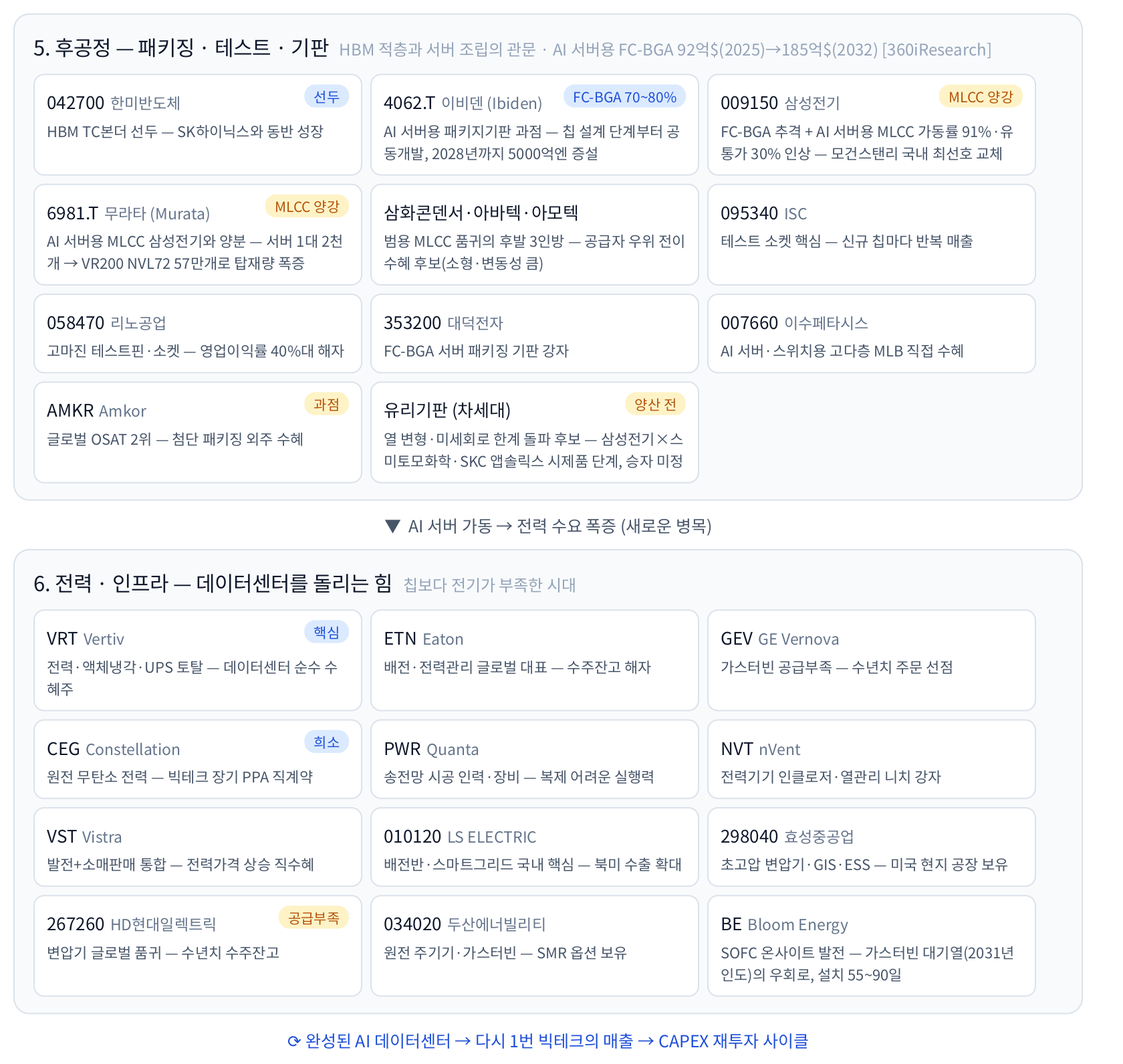
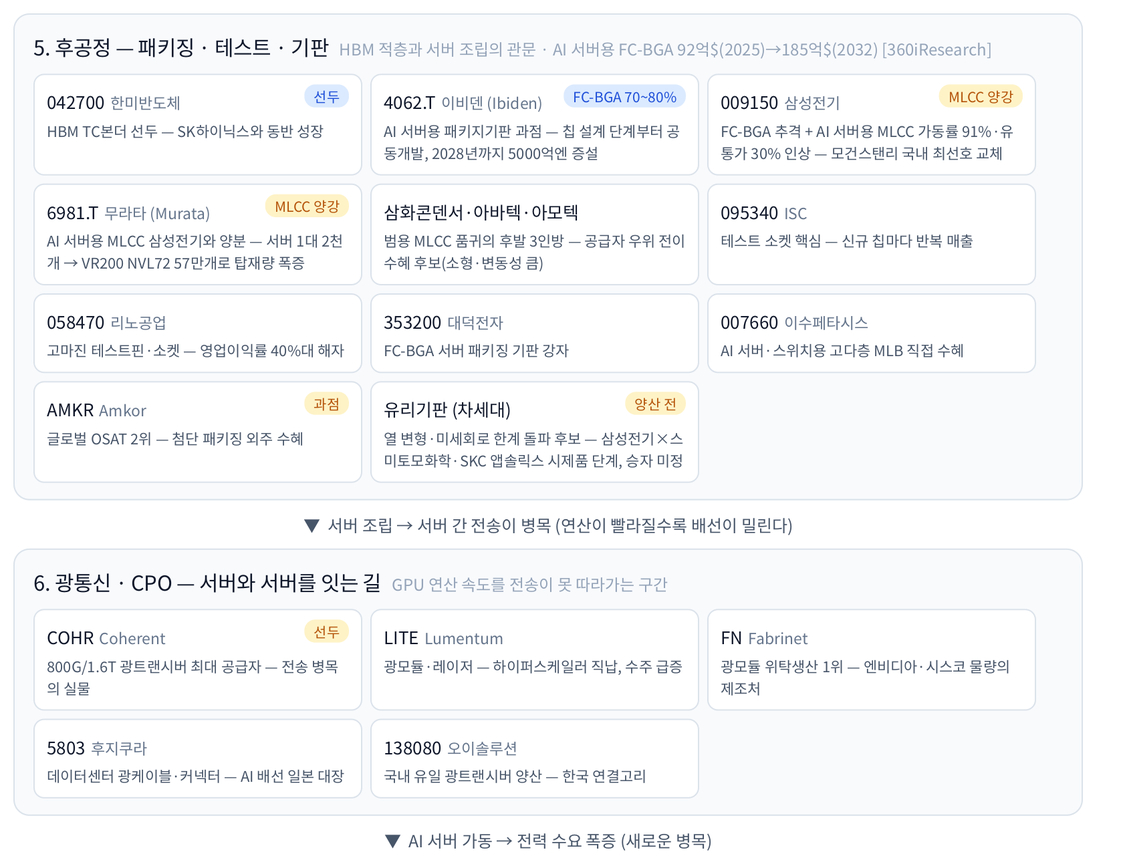
부록C 광통신·CPO 축 신설(50→55종) + 美 ETF AI 세부테마 15종(30→48종)
계기: 한경MONEY 2026.08 'ETF 심층해부 — AI 메가트렌드'. 기사의 핵심은 종목 리스트가 아니라
'투자 트렌드가 병목을 따라 이동한다'(연산→메모리→광통신→전력)는 프레임이고,
그 축으로 우리 커버리지를 대조하니 두 곳이 실제로 비어 있었다.

[① 부록C 광통신·CPO — 4대 하드웨어 병목의 3번째가 통째로 없었다]
그동안 '전기적' 인터커넥트(ANET 스위칭·CRDO SerDes·ALAB PCIe/CXL·AVGO·MRVL)만 촘촘했고
'광학' 실물 공급자가 0종이었다. 실측하니 이 축이 바로 돈이 몰린 곳이었다 —
LITE +521% · COHR +195% · 후지쿠라 +131% · 오이솔루션 +127%(1년).
다만 3개월은 COHR -14%·FN -22%·오이솔루션 -15%로 조정 중이라 '병목이 이미 지나간' 신호도 함께 잡힌다.
- COHR(800G/1.6T 광트랜시버 최대) · LITE(광모듈·레이저) · FN(광모듈 위탁생산 1위)
  · 5803.T 후지쿠라(DC 광케이블) · 138080.KQ 오이솔루션(국내 유일 광트랜시버 양산)

[② 生成기·빌더의 장수 하드코딩 버그 — 조용한 누락 발견·수정]
gen_appd_valuechain.py 의 PARTS 가 6섹션·3페이지로 고정돼 있어 광통신 섹션을 넣자
**마지막 전력·인프라 섹션이 PNG 에서 통째로 사라졌다**(FULL 도 range(6) 고정).
빌더 renderAppendixD 도 [1,2,3] 고정이라 4번째 장을 못 읽었다.
→ 둘 다 동적으로 교체(섹션 2개씩 자동 분할·최대 8장 탐색) + ARROWS 길이 assert 추가.
   앞으로 섹션을 추가해도 조용히 잘리지 않는다. PNG 3장 → 4장 재생성.

[③ 美 ETF AI 세부테마 15종]
기사 AI ETF 맵 40종 중 우리 보유는 11종뿐이었다(QQQ·XLK·MAGS·SMH·SOXX·DRAM·XLU·NLR·AIQ·ROBO·QTUM).
클라우드·데이터센터·광통신·소프트웨어·보안·생성AI 는 각 0종.
→ 그룹키 'aitheme' 신설: SKYY·WCLD / DTCR·TRFK / LUMA·LYTE / GRID·AIPO / CHPX / IGV /
  CIBR·HACK·BUG / CHAT·IGPT. 반도체·시장대표 중복분(XSD·PSI·FTXL·SOXQ·VGT·IYW·FTEC·IXN·IGM·IHAK·CLOU·BAI)은 제외.
  빌더 groups 배열 ④ 신설(방어형 ④→⑤) + 서버 app.js etfGroups 라벨 등록 + usetf 딕셔너리 키 초기화.
  ⚠ 광통신 ETF 2종은 2026년 신규상장이라 1년·6개월 칸이 '-' 로 나오는 게 정상.

[검증] fetch_appc 55/55 · errs [] / fetch_us 48종·1년수익률 48/48 채워짐 /
       PNG 4장 재생성 후 7.전력·인프라 12종(BE 포함) 복구 육안 확인 / node --check 통과 /
       verify [AppC] 하한 50→55, SKILL.md 5곳 갱신

diff --git a/assets/appd_valuechain.html b/assets/appd_valuechain.html
@@ -19,4 +19,4 @@ body { font-family:'Noto Sans CJK KR','Noto Sans KR',sans-serif; margin:0; paddi
 .b2 { background:#fef3c7; color:#b45309; }
 .arr { text-align:center; color:#475569; font-size:12.5px; padding:9px 0; }
 .cyc { text-align:center; color:#1d4ed8; font-size:12.5px; padding:10px 0 2px; }
-</style></head><body><div class="leg"><span class="b1">독점·준독점</span> 대체재가 사실상 없음&nbsp;&nbsp;&nbsp;<span class="b2">과점·복점·양강</span> 2~3개사가 시장 분할</div><div class="sec"><div class="sh"><span class="t">1. 수요 — 빅테크 (돈의 출발점)</span><span class="s">연 수천억 달러 AI CAPEX 집행</span></div><div class="cards"><div class="card"><span class="tk">MSFT</span><span class="nm">Microsoft</span><div class="mo">OpenAI 동맹 + Azure — AI 소프트웨어 배급망 장악</div></div><div class="card"><span class="tk">GOOGL</span><span class="nm">Alphabet</span><div class="mo">자체 TPU 설계 + 검색·클라우드 데이터 해자</div></div><div class="card"><span class="tk">AMZN</span><span class="nm">Amazon</span><div class="mo">AWS 점유 1위 + 자체칩(Trainium)으로 원가 통제</div></div><div class="card"><span class="tk">META</span><span class="nm">Meta</span><div class="mo">광고 AI로 CAPEX를 즉시 수익화하는 구조</div></div><div class="card"><span class="tk">ORCL</span><span class="nm">Oracle</span><div class="mo">OCI 대형 AI 계약 수주로 '제4 클라우드' 부상</div></div></div></div><div class="arr">▼&nbsp;&nbsp;AI 칩 주문 — CAPEX가 아래로 흘러내린다</div><div class="sec"><div class="sh"><span class="t">2. 설계 — 팹리스 · EDA · 인터커넥트</span><span class="s">공장 없이 설계도와 생태계로 지배</span></div><div class="cards"><div class="card"><span class="b1">독점적</span><span class="tk">NVDA</span><span class="nm">NVIDIA</span><div class="mo">CUDA 소프트웨어 락인 — 칩이 아니라 생태계가 해자</div></div><div class="card"><span class="tk">AMD</span><span class="nm">AMD</span><div class="mo">유일하게 규모 있는 GPU 대안 — 수요처가 키워주는 2등</div></div><div class="card"><span class="b2">과점</span><span class="tk">AVGO</span><span class="nm">Broadcom</span><div class="mo">빅테크 자체칩(ASIC) 설계 대행 + 네트워크칩 지배</div></div><div class="card"><span class="tk">MRVL</span><span class="nm">Marvell</span><div class="mo">커스텀 실리콘 2강 — Broadcom과 시장 분할</div></div><div class="card"><span class="b1">표준</span><span class="tk">ARM</span><span class="nm">Arm</span><div class="mo">저전력 CPU 설계 IP의 사실상 표준 — 로열티 수취</div></div><div class="card"><span class="b2">복점</span><span class="tk">SNPS</span><span class="nm">Synopsys</span><div class="mo">EDA 툴 없인 칩 설계 불가 — Cadence와 복점</div></div><div class="card"><span class="b2">복점</span><span class="tk">CDNS</span><span class="nm">Cadence</span><div class="mo">설계·검증 EDA 복점의 다른 한 축</div></div><div class="card"><span class="tk">ANET</span><span class="nm">Arista</span><div class="mo">GPU 수만 개를 묶는 AI 클러스터 스위치 1위</div></div><div class="card"><span class="tk">CRDO</span><span class="nm">Credo</span><div class="mo">칩 간 고속연결 SerDes — 대역폭 병목 해소</div></div><div class="card"><span class="tk">ALAB</span><span class="nm">Astera Labs</span><div class="mo">PCIe/CXL 리타이머 선점 — AI 서버 표준 부품화</div></div></div></div><div class="arr">▼&nbsp;&nbsp;설계도 → 위탁생산 (장비·소재 없이는 공장이 못 돈다)</div><div class="sec"><div class="sh"><span class="t">3. 장비 · 소재 — 제조의 병목 공급자</span><span class="s">파운드리·메모리가 전량 의존</span></div><div class="cards"><div class="card"><span class="b1">완전독점</span><span class="tk">ASML</span><span class="nm">ASML</span><div class="mo">EUV 노광기 지구상 유일 제조사 — 최상위 병목</div></div><div class="card"><span class="tk">AMAT</span><span class="nm">Applied Materials</span><div class="mo">증착·이온주입 등 최광폭 장비 포트폴리오</div></div><div class="card"><span class="b2">과점</span><span class="tk">LRCX</span><span class="nm">Lam Research</span><div class="mo">식각 장비 강자 — 적층 늘수록 수혜</div></div><div class="card"><span class="b1">독점적</span><span class="tk">KLAC</span><span class="nm">KLA</span><div class="mo">검사·계측 점유 과반 — 수율 관리의 관문</div></div><div class="card"><span class="b1">준독점</span><span class="tk">8035.T</span><span class="nm">Tokyo Electron</span><div class="mo">포토레지스트 도포 트랙 등 준독점 영역 보유</div></div><div class="card"><span class="b2">양강</span><span class="tk">6857.T</span><span class="nm">Advantest</span><div class="mo">AI 가속기·HBM 테스터 양강 — 검사 없인 출하 불가</div></div><div class="card"><span class="b1">준독점</span><span class="tk">6146.T</span><span class="nm">Disco</span><div class="mo">웨이퍼 그라인더·다이서 사실상 독점 — HBM 적층 필수</div></div><div class="card"><span class="b2">양강</span><span class="tk">4063.T</span><span class="nm">Shin-Etsu</span><div class="mo">실리콘 웨이퍼·포토레지스트 최상위 소재</div></div><div class="card"><span class="b2">양강</span><span class="tk">3436.T</span><span class="nm">SUMCO</span><div class="mo">웨이퍼 양강의 다른 축 — 신규진입 사실상 불가</div></div></div></div><div class="arr">▼&nbsp;&nbsp;장비·소재 공급</div><div class="sec"><div class="sh"><span class="t">4. 제조 — 파운드리 & 메모리(HBM)</span><span class="s">설계도를 실물 칩으로</span></div><div class="cards"><div class="card"><span class="b1">독점적</span><span class="tk">TSM</span><span class="nm">TSMC</span><div class="mo">3nm 이하 선단공정 사실상 독점 — NVDA·AMD·AVGO 전부 여기서 생산</div></div><div class="card"><span class="tk">005930</span><span class="nm">삼성전자</span><div class="mo">메모리+파운드리 동시 보유 유일 기업</div></div><div class="card"><span class="tk">INTC</span><span class="nm">Intel</span><div class="mo">미국 내 파운드리 재건 — 지정학이 만든 옵션가치</div></div><div class="card"><span class="b1">1위</span><span class="tk">000660</span><span class="nm">SK하이닉스</span><div class="mo">HBM 점유 1위 — NVIDIA 최우선 공급사 지위</div></div><div class="card"><span class="b2">3강</span><span class="tk">MU</span><span class="nm">Micron</span><div class="mo">HBM·DRAM 3강 — 미국 유일 메모리사</div></div></div></div><div class="arr">▼&nbsp;&nbsp;칩 완성 → 적층·패키징·테스트 (한국 기업 밀집 구간)</div><div class="sec"><div class="sh"><span class="t">5. 후공정 — 패키징 · 테스트 · 기판</span><span class="s">HBM 적층과 서버 조립의 관문 · AI 서버용 FC-BGA 92억$(2025)→185억$(2032) [360iResearch]</span></div><div class="cards"><div class="card"><span class="b1">선두</span><span class="tk">042700</span><span class="nm">한미반도체</span><div class="mo">HBM TC본더 선두 — SK하이닉스와 동반 성장</div></div><div class="card"><span class="b1">FC-BGA 70~80%</span><span class="tk">4062.T</span><span class="nm">이비덴 (Ibiden)</span><div class="mo">AI 서버용 패키지기판 과점 — 칩 설계 단계부터 공동개발, 2028년까지 5000억엔 증설</div></div><div class="card"><span class="b2">MLCC 양강</span><span class="tk">009150</span><span class="nm">삼성전기</span><div class="mo">FC-BGA 추격 + AI 서버용 MLCC 가동률 91%·유통가 30% 인상 — 모건스탠리 국내 최선호 교체</div></div><div class="card"><span class="b2">MLCC 양강</span><span class="tk">6981.T</span><span class="nm">무라타 (Murata)</span><div class="mo">AI 서버용 MLCC 삼성전기와 양분 — 서버 1대 2천개 → VR200 NVL72 57만개로 탑재량 폭증</div></div><div class="card"><span class="tk">삼화콘덴서·아바텍·아모텍</span><span class="nm"></span><div class="mo">범용 MLCC 품귀의 후발 3인방 — 공급자 우위 전이 수혜 후보(소형·변동성 큼)</div></div><div class="card"><span class="tk">095340</span><span class="nm">ISC</span><div class="mo">테스트 소켓 핵심 — 신규 칩마다 반복 매출</div></div><div class="card"><span class="tk">058470</span><span class="nm">리노공업</span><div class="mo">고마진 테스트핀·소켓 — 영업이익률 40%대 해자</div></div><div class="card"><span class="tk">353200</span><span class="nm">대덕전자</span><div class="mo">FC-BGA 서버 패키징 기판 강자</div></div><div class="card"><span class="tk">007660</span><span class="nm">이수페타시스</span><div class="mo">AI 서버·스위치용 고다층 MLB 직접 수혜</div></div><div class="card"><span class="b2">과점</span><span class="tk">AMKR</span><span class="nm">Amkor</span><div class="mo">글로벌 OSAT 2위 — 첨단 패키징 외주 수혜</div></div><div class="card"><span class="b2">양산 전</span><span class="tk">유리기판 (차세대)</span><span class="nm"></span><div class="mo">열 변형·미세회로 한계 돌파 후보 — 삼성전기×스미토모화학·SKC 앱솔릭스 시제품 단계, 승자 미정</div></div></div></div><div class="arr">▼&nbsp;&nbsp;AI 서버 가동 → 전력 수요 폭증 (새로운 병목)</div><div class="sec"><div class="sh"><span class="t">6. 전력 · 인프라 — 데이터센터를 돌리는 힘</span><span class="s">칩보다 전기가 부족한 시대</span></div><div class="cards"><div class="card"><span class="b1">핵심</span><span class="tk">VRT</span><span class="nm">Vertiv</span><div class="mo">전력·액체냉각·UPS 토탈 — 데이터센터 순수 수혜주</div></div><div class="card"><span class="tk">ETN</span><span class="nm">Eaton</span><div class="mo">배전·전력관리 글로벌 대표 — 수주잔고 해자</div></div><div class="card"><span class="tk">GEV</span><span class="nm">GE Vernova</span><div class="mo">가스터빈 공급부족 — 수년치 주문 선점</div></div><div class="card"><span class="b1">희소</span><span class="tk">CEG</span><span class="nm">Constellation</span><div class="mo">원전 무탄소 전력 — 빅테크 장기 PPA 직계약</div></div><div class="card"><span class="tk">PWR</span><span class="nm">Quanta</span><div class="mo">송전망 시공 인력·장비 — 복제 어려운 실행력</div></div><div class="card"><span class="tk">NVT</span><span class="nm">nVent</span><div class="mo">전력기기 인클로저·열관리 니치 강자</div></div><div class="card"><span class="tk">VST</span><span class="nm">Vistra</span><div class="mo">발전+소매판매 통합 — 전력가격 상승 직수혜</div></div><div class="card"><span class="tk">010120</span><span class="nm">LS ELECTRIC</span><div class="mo">배전반·스마트그리드 국내 핵심 — 북미 수출 확대</div></div><div class="card"><span class="tk">298040</span><span class="nm">효성중공업</span><div class="mo">초고압 변압기·GIS·ESS — 미국 현지 공장 보유</div></div><div class="card"><span class="b2">공급부족</span><span class="tk">267260</span><span class="nm">HD현대일렉트릭</span><div class="mo">변압기 글로벌 품귀 — 수년치 수주잔고</div></div><div class="card"><span class="tk">034020</span><span class="nm">두산에너빌리티</span><div class="mo">원전 주기기·가스터빈 — SMR 옵션 보유</div></div><div class="card"><span class="tk">BE</span><span class="nm">Bloom Energy</span><div class="mo">SOFC 온사이트 발전 — 가스터빈 대기열(2031년 인도)의 우회로, 설치 55~90일</div></div></div></div><div class="cyc">⟳ 완성된 AI 데이터센터 → 다시 1번 빅테크의 매출 → CAPEX 재투자 사이클</div></body></html>
+</style></head><body><div class="leg"><span class="b1">독점·준독점</span> 대체재가 사실상 없음&nbsp;&nbsp;&nbsp;<span class="b2">과점·복점·양강</span> 2~3개사가 시장 분할</div><div class="sec"><div class="sh"><span class="t">1. 수요 — 빅테크 (돈의 출발점)</span><span class="s">연 수천억 달러 AI CAPEX 집행</span></div><div class="cards"><div class="card"><span class="tk">MSFT</span><span class="nm">Microsoft</span><div class="mo">OpenAI 동맹 + Azure — AI 소프트웨어 배급망 장악</div></div><div class="card"><span class="tk">GOOGL</span><span class="nm">Alphabet</span><div class="mo">자체 TPU 설계 + 검색·클라우드 데이터 해자</div></div><div class="card"><span class="tk">AMZN</span><span class="nm">Amazon</span><div class="mo">AWS 점유 1위 + 자체칩(Trainium)으로 원가 통제</div></div><div class="card"><span class="tk">META</span><span class="nm">Meta</span><div class="mo">광고 AI로 CAPEX를 즉시 수익화하는 구조</div></div><div class="card"><span class="tk">ORCL</span><span class="nm">Oracle</span><div class="mo">OCI 대형 AI 계약 수주로 '제4 클라우드' 부상</div></div></div></div><div class="arr">▼&nbsp;&nbsp;AI 칩 주문 — CAPEX가 아래로 흘러내린다</div><div class="sec"><div class="sh"><span class="t">2. 설계 — 팹리스 · EDA · 인터커넥트</span><span class="s">공장 없이 설계도와 생태계로 지배</span></div><div class="cards"><div class="card"><span class="b1">독점적</span><span class="tk">NVDA</span><span class="nm">NVIDIA</span><div class="mo">CUDA 소프트웨어 락인 — 칩이 아니라 생태계가 해자</div></div><div class="card"><span class="tk">AMD</span><span class="nm">AMD</span><div class="mo">유일하게 규모 있는 GPU 대안 — 수요처가 키워주는 2등</div></div><div class="card"><span class="b2">과점</span><span class="tk">AVGO</span><span class="nm">Broadcom</span><div class="mo">빅테크 자체칩(ASIC) 설계 대행 + 네트워크칩 지배</div></div><div class="card"><span class="tk">MRVL</span><span class="nm">Marvell</span><div class="mo">커스텀 실리콘 2강 — Broadcom과 시장 분할</div></div><div class="card"><span class="b1">표준</span><span class="tk">ARM</span><span class="nm">Arm</span><div class="mo">저전력 CPU 설계 IP의 사실상 표준 — 로열티 수취</div></div><div class="card"><span class="b2">복점</span><span class="tk">SNPS</span><span class="nm">Synopsys</span><div class="mo">EDA 툴 없인 칩 설계 불가 — Cadence와 복점</div></div><div class="card"><span class="b2">복점</span><span class="tk">CDNS</span><span class="nm">Cadence</span><div class="mo">설계·검증 EDA 복점의 다른 한 축</div></div><div class="card"><span class="tk">ANET</span><span class="nm">Arista</span><div class="mo">GPU 수만 개를 묶는 AI 클러스터 스위치 1위</div></div><div class="card"><span class="tk">CRDO</span><span class="nm">Credo</span><div class="mo">칩 간 고속연결 SerDes — 대역폭 병목 해소</div></div><div class="card"><span class="tk">ALAB</span><span class="nm">Astera Labs</span><div class="mo">PCIe/CXL 리타이머 선점 — AI 서버 표준 부품화</div></div></div></div><div class="arr">▼&nbsp;&nbsp;설계도 → 위탁생산 (장비·소재 없이는 공장이 못 돈다)</div><div class="sec"><div class="sh"><span class="t">3. 장비 · 소재 — 제조의 병목 공급자</span><span class="s">파운드리·메모리가 전량 의존</span></div><div class="cards"><div class="card"><span class="b1">완전독점</span><span class="tk">ASML</span><span class="nm">ASML</span><div class="mo">EUV 노광기 지구상 유일 제조사 — 최상위 병목</div></div><div class="card"><span class="tk">AMAT</span><span class="nm">Applied Materials</span><div class="mo">증착·이온주입 등 최광폭 장비 포트폴리오</div></div><div class="card"><span class="b2">과점</span><span class="tk">LRCX</span><span class="nm">Lam Research</span><div class="mo">식각 장비 강자 — 적층 늘수록 수혜</div></div><div class="card"><span class="b1">독점적</span><span class="tk">KLAC</span><span class="nm">KLA</span><div class="mo">검사·계측 점유 과반 — 수율 관리의 관문</div></div><div class="card"><span class="b1">준독점</span><span class="tk">8035.T</span><span class="nm">Tokyo Electron</span><div class="mo">포토레지스트 도포 트랙 등 준독점 영역 보유</div></div><div class="card"><span class="b2">양강</span><span class="tk">6857.T</span><span class="nm">Advantest</span><div class="mo">AI 가속기·HBM 테스터 양강 — 검사 없인 출하 불가</div></div><div class="card"><span class="b1">준독점</span><span class="tk">6146.T</span><span class="nm">Disco</span><div class="mo">웨이퍼 그라인더·다이서 사실상 독점 — HBM 적층 필수</div></div><div class="card"><span class="b2">양강</span><span class="tk">4063.T</span><span class="nm">Shin-Etsu</span><div class="mo">실리콘 웨이퍼·포토레지스트 최상위 소재</div></div><div class="card"><span class="b2">양강</span><span class="tk">3436.T</span><span class="nm">SUMCO</span><div class="mo">웨이퍼 양강의 다른 축 — 신규진입 사실상 불가</div></div></div></div><div class="arr">▼&nbsp;&nbsp;장비·소재 공급</div><div class="sec"><div class="sh"><span class="t">4. 제조 — 파운드리 & 메모리(HBM)</span><span class="s">설계도를 실물 칩으로</span></div><div class="cards"><div class="card"><span class="b1">독점적</span><span class="tk">TSM</span><span class="nm">TSMC</span><div class="mo">3nm 이하 선단공정 사실상 독점 — NVDA·AMD·AVGO 전부 여기서 생산</div></div><div class="card"><span class="tk">005930</span><span class="nm">삼성전자</span><div class="mo">메모리+파운드리 동시 보유 유일 기업</div></div><div class="card"><span class="tk">INTC</span><span class="nm">Intel</span><div class="mo">미국 내 파운드리 재건 — 지정학이 만든 옵션가치</div></div><div class="card"><span class="b1">1위</span><span class="tk">000660</span><span class="nm">SK하이닉스</span><div class="mo">HBM 점유 1위 — NVIDIA 최우선 공급사 지위</div></div><div class="card"><span class="b2">3강</span><span class="tk">MU</span><span class="nm">Micron</span><div class="mo">HBM·DRAM 3강 — 미국 유일 메모리사</div></div></div></div><div class="arr">▼&nbsp;&nbsp;칩 완성 → 적층·패키징·테스트 (한국 기업 밀집 구간)</div><div class="sec"><div class="sh"><span class="t">5. 후공정 — 패키징 · 테스트 · 기판</span><span class="s">HBM 적층과 서버 조립의 관문 · AI 서버용 FC-BGA 92억$(2025)→185억$(2032) [360iResearch]</span></div><div class="cards"><div class="card"><span class="b1">선두</span><span class="tk">042700</span><span class="nm">한미반도체</span><div class="mo">HBM TC본더 선두 — SK하이닉스와 동반 성장</div></div><div class="card"><span class="b1">FC-BGA 70~80%</span><span class="tk">4062.T</span><span class="nm">이비덴 (Ibiden)</span><div class="mo">AI 서버용 패키지기판 과점 — 칩 설계 단계부터 공동개발, 2028년까지 5000억엔 증설</div></div><div class="card"><span class="b2">MLCC 양강</span><span class="tk">009150</span><span class="nm">삼성전기</span><div class="mo">FC-BGA 추격 + AI 서버용 MLCC 가동률 91%·유통가 30% 인상 — 모건스탠리 국내 최선호 교체</div></div><div class="card"><span class="b2">MLCC 양강</span><span class="tk">6981.T</span><span class="nm">무라타 (Murata)</span><div class="mo">AI 서버용 MLCC 삼성전기와 양분 — 서버 1대 2천개 → VR200 NVL72 57만개로 탑재량 폭증</div></div><div class="card"><span class="tk">삼화콘덴서·아바텍·아모텍</span><span class="nm"></span><div class="mo">범용 MLCC 품귀의 후발 3인방 — 공급자 우위 전이 수혜 후보(소형·변동성 큼)</div></div><div class="card"><span class="tk">095340</span><span class="nm">ISC</span><div class="mo">테스트 소켓 핵심 — 신규 칩마다 반복 매출</div></div><div class="card"><span class="tk">058470</span><span class="nm">리노공업</span><div class="mo">고마진 테스트핀·소켓 — 영업이익률 40%대 해자</div></div><div class="card"><span class="tk">353200</span><span class="nm">대덕전자</span><div class="mo">FC-BGA 서버 패키징 기판 강자</div></div><div class="card"><span class="tk">007660</span><span class="nm">이수페타시스</span><div class="mo">AI 서버·스위치용 고다층 MLB 직접 수혜</div></div><div class="card"><span class="b2">과점</span><span class="tk">AMKR</span><span class="nm">Amkor</span><div class="mo">글로벌 OSAT 2위 — 첨단 패키징 외주 수혜</div></div><div class="card"><span class="b2">양산 전</span><span class="tk">유리기판 (차세대)</span><span class="nm"></span><div class="mo">열 변형·미세회로 한계 돌파 후보 — 삼성전기×스미토모화학·SKC 앱솔릭스 시제품 단계, 승자 미정</div></div></div></div><div class="arr">▼&nbsp;&nbsp;서버 조립 → 서버 간 전송이 병목 (연산이 빨라질수록 배선이 밀린다)</div><div class="sec"><div class="sh"><span class="t">6. 광통신 · CPO — 서버와 서버를 잇는 길</span><span class="s">GPU 연산 속도를 전송이 못 따라가는 구간</span></div><div class="cards"><div class="card"><span class="b2">선두</span><span class="tk">COHR</span><span class="nm">Coherent</span><div class="mo">800G/1.6T 광트랜시버 최대 공급자 — 전송 병목의 실물</div></div><div class="card"><span class="tk">LITE</span><span class="nm">Lumentum</span><div class="mo">광모듈·레이저 — 하이퍼스케일러 직납, 수주 급증</div></div><div class="card"><span class="tk">FN</span><span class="nm">Fabrinet</span><div class="mo">광모듈 위탁생산 1위 — 엔비디아·시스코 물량의 제조처</div></div><div class="card"><span class="tk">5803</span><span class="nm">후지쿠라</span><div class="mo">데이터센터 광케이블·커넥터 — AI 배선 일본 대장</div></div><div class="card"><span class="tk">138080</span><span class="nm">오이솔루션</span><div class="mo">국내 유일 광트랜시버 양산 — 한국 연결고리</div></div></div></div><div class="arr">▼&nbsp;&nbsp;AI 서버 가동 → 전력 수요 폭증 (새로운 병목)</div><div class="sec"><div class="sh"><span class="t">7. 전력 · 인프라 — 데이터센터를 돌리는 힘</span><span class="s">칩보다 전기가 부족한 시대</span></div><div class="cards"><div class="card"><span class="b1">핵심</span><span class="tk">VRT</span><span class="nm">Vertiv</span><div class="mo">전력·액체냉각·UPS 토탈 — 데이터센터 순수 수혜주</div></div><div class="card"><span class="tk">ETN</span><span class="nm">Eaton</span><div class="mo">배전·전력관리 글로벌 대표 — 수주잔고 해자</div></div><div class="card"><span class="tk">GEV</span><span class="nm">GE Vernova</span><div class="mo">가스터빈 공급부족 — 수년치 주문 선점</div></div><div class="card"><span class="b1">희소</span><span class="tk">CEG</span><span class="nm">Constellation</span><div class="mo">원전 무탄소 전력 — 빅테크 장기 PPA 직계약</div></div><div class="card"><span class="tk">PWR</span><span class="nm">Quanta</span><div class="mo">송전망 시공 인력·장비 — 복제 어려운 실행력</div></div><div class="card"><span class="tk">NVT</span><span class="nm">nVent</span><div class="mo">전력기기 인클로저·열관리 니치 강자</div></div><div class="card"><span class="tk">VST</span><span class="nm">Vistra</span><div class="mo">발전+소매판매 통합 — 전력가격 상승 직수혜</div></div><div class="card"><span class="tk">010120</span><span class="nm">LS ELECTRIC</span><div class="mo">배전반·스마트그리드 국내 핵심 — 북미 수출 확대</div></div><div class="card"><span class="tk">298040</span><span class="nm">효성중공업</span><div class="mo">초고압 변압기·GIS·ESS — 미국 현지 공장 보유</div></div><div class="card"><span class="b2">공급부족</span><span class="tk">267260</span><span class="nm">HD현대일렉트릭</span><div class="mo">변압기 글로벌 품귀 — 수년치 수주잔고</div></div><div class="card"><span class="tk">034020</span><span class="nm">두산에너빌리티</span><div class="mo">원전 주기기·가스터빈 — SMR 옵션 보유</div></div><div class="card"><span class="tk">BE</span><span class="nm">Bloom Energy</span><div class="mo">SOFC 온사이트 발전 — 가스터빈 대기열(2031년 인도)의 우회로, 설치 55~90일</div></div></div></div><div class="cyc">⟳ 완성된 AI 데이터센터 → 다시 1번 빅테크의 매출 → CAPEX 재투자 사이클</div></body></html>

diff --git a/plugins/namoobi-market-report/skills/namoobi-market-report/scripts/build_report.js b/plugins/namoobi-market-report/skills/namoobi-market-report/scripts/build_report.js
@@ -809,7 +809,7 @@ function renderHY(){ const m=data.markets||{};
 function renderUSExtras(){ renderUSEtfs(); renderIndexRebalance(); }
 // (v3.6.8) 3.2.2 주요 미국 ETF — 지수추종·11개 섹터·테마/특화·방어형. 데이터(markets.us_etfs) 없으면 자동 생략.
 function renderUSEtfs(){ const e=data.markets&&data.markets.us_etfs; if(!e||typeof e!=="object")return;
-  const groups=[["index","① 미국 대표 지수 추종 ETF (시장 전체 흐름)"],["sector","② 섹터별 ETF (11개 S&P 500 섹터)"],["theme","③ 테마·특화 ETF (AI·반도체·배당·우주)"],["defensive","④ 방어형 ETF (변동성 완화)"]];
+  const groups=[["index","① 미국 대표 지수 추종 ETF (시장 전체 흐름)"],["sector","② 섹터별 ETF (11개 S&P 500 섹터)"],["theme","③ 테마·특화 ETF (AI·반도체·배당·우주)"],["aitheme","④ AI 세부 테마 ETF (병목별 — 클라우드·데이터센터·광통신·전력·소프트웨어·보안·생성AI)"],["defensive","⑤ 방어형 ETF (변동성 완화)"]];
   if(!groups.some(([k])=>Array.isArray(e[k])&&e[k].length))return;
   children.push(h("3.3.1 주요 미국 ETF (지수·섹터·테마·방어형)",3));
   children.push(p("미국 대표 지수 추종·11개 S&P 500 섹터·테마/특화·방어형 ETF 의 현재가와 1주~1년 수익률, 1년 추세를 정리한다. 수익률은 주봉 종가 기준 가격수익률로, 분배금이 큰 ETF(SCHD·JEPI·채권형 등)는 실제 총수익률이 더 높을 수 있다. 섹터 ETF 옆 [%]는 S&P 500 내 비중.",{italics:true,color:"64748B"}));
@@ -1855,7 +1855,9 @@ function renderAppendixD(){ try{
     try{ if(!fs.existsSync('charts'))fs.mkdirSync('charts'); fs.writeFileSync(rel,b); }catch(e){ return null; }
     return {rel:rel,buf:b};
   }
-  const imgs=[1,2,3].map(loadOne);
+  // (v4.04 2026-09-05) 장수를 고정하지 않는다 — 종전 [1,2,3] 고정이라 생성기가 4장을 뽑아도 4번째가 조용히 빠졌다.
+  //   존재하는 것만 순서대로 싣고, 처음 없는 번호에서 멈춘다(최대 8장).
+  const imgs=[]; for(let i=1;i<=8;i++){ const o=loadOne(i); if(!o)break; imgs.push(o); }
   if(!imgs.some(Boolean))return;
   children.push(new Paragraph({children:[new PageBreak()]}));
   children.push(h("[부록D] AI 반도체 밸류체인 관계도 (해자 지도)",1));

diff --git a/plugins/namoobi-market-report/skills/namoobi-market-report/scripts/verify_report.js b/plugins/namoobi-market-report/skills/namoobi-market-report/scripts/verify_report.js
@@ -127,7 +127,7 @@ try{
   const ac=m.appendix_c||{}; const rows=(ac&&ac.rows)||{}; let n=0,miss=0;
   Object.keys(rows).forEach(g=>{(Array.isArray(rows[g])?rows[g]:[]).forEach(x=>{ n++; const sym=String((x&&(x.code||x.symbol))||'').replace(/\./g,'_'); if(!cExists('charts/spark_c_'+sym+'.png')) miss++; });});
   if(!n) warnings.push('[AppC] appendix_c data missing (fetch_appc.py) - section omitted');
-  else { if(n<50) warnings.push('[AppC] AI value-chain rows '+n+'<50 (v4.03: check fetch_appc.py)');
+  else { if(n<55) warnings.push('[AppC] AI value-chain rows '+n+'<55 (v4.04: check fetch_appc.py)');
          if(miss>Math.max(1,Math.floor(n*0.2))) warnings.push('[AppC] value-chain spark charts missing '+miss+'/'+n+' (gen_rest_charts spark_c_*)'); }
 }catch(e){}
 // req20 (2026-07-05): 3.1.6 FactSet — "매 실행 변동 체크·미변동 유지" 동작 보장.

diff --git a/assets/gen_appd_valuechain.py b/assets/gen_appd_valuechain.py
@@ -69,7 +69,14 @@ SECTIONS = [
   ("AMKR","Amkor","과점",B2,"글로벌 OSAT 2위 — 첨단 패키징 외주 수혜"),
   ("유리기판 (차세대)","","양산 전",B2,"열 변형·미세회로 한계 돌파 후보 — 삼성전기×스미토모화학·SKC 앱솔릭스 시제품 단계, 승자 미정"),
  ]),
- ("6. 전력 · 인프라 — 데이터센터를 돌리는 힘", "칩보다 전기가 부족한 시대", [
+ ("6. 광통신 · CPO — 서버와 서버를 잇는 길", "GPU 연산 속도를 전송이 못 따라가는 구간", [
+  ("COHR","Coherent","선두",B2,"800G/1.6T 광트랜시버 최대 공급자 — 전송 병목의 실물"),
+  ("LITE","Lumentum",None,None,"광모듈·레이저 — 하이퍼스케일러 직납, 수주 급증"),
+  ("FN","Fabrinet",None,None,"광모듈 위탁생산 1위 — 엔비디아·시스코 물량의 제조처"),
+  ("5803","후지쿠라",None,None,"데이터센터 광케이블·커넥터 — AI 배선 일본 대장"),
+  ("138080","오이솔루션",None,None,"국내 유일 광트랜시버 양산 — 한국 연결고리"),
+ ]),
+ ("7. 전력 · 인프라 — 데이터센터를 돌리는 힘", "칩보다 전기가 부족한 시대", [
   ("VRT","Vertiv","핵심",B1,"전력·액체냉각·UPS 토탈 — 데이터센터 순수 수혜주"),
   ("ETN","Eaton",None,None,"배전·전력관리 글로벌 대표 — 수주잔고 해자"),
   ("GEV","GE Vernova",None,None,"가스터빈 공급부족 — 수년치 주문 선점"),
@@ -90,6 +97,7 @@ ARROWS = [
  "설계도 → 위탁생산 (장비·소재 없이는 공장이 못 돈다)",
  "장비·소재 공급",
  "칩 완성 → 적층·패키징·테스트 (한국 기업 밀집 구간)",
+ "서버 조립 → 서버 간 전송이 병목 (연산이 빨라질수록 배선이 밀린다)",
  "AI 서버 가동 → 전력 수요 폭증 (새로운 병목)",
 ]
 CYCLE = "⟳ 완성된 AI 데이터센터 → 다시 1번 빅테크의 매출 → CAPEX 재투자 사이클"
@@ -134,18 +142,27 @@ def arrow(i):
 LEGEND = ('<div class="leg"><span class="b1">독점·준독점</span> 대체재가 사실상 없음'
           '&nbsp;&nbsp;&nbsp;<span class="b2">과점·복점·양강</span> 2~3개사가 시장 분할</div>')
 
-PARTS = [
-    LEGEND + section(0) + arrow(0) + section(1),
-    section(2) + arrow(2) + section(3),
-    section(4) + arrow(4) + section(5) + f'<div class="cyc">{CYCLE}</div>',
-]
-# 부록 흐름상 파트 사이 화살표(1→2 경계는 arrow(1), 2→3 경계는 arrow(3))를 각 파트 말미에 부착
-PARTS[0] += arrow(1)
-PARTS[1] += arrow(3)
+# (2026-09-05 수정) 섹션 수를 하드코딩하지 않는다 — 종전 PARTS/FULL 은 6섹션·3페이지로 고정돼 있어
+#   광통신·CPO 섹션을 추가하자 마지막 '전력·인프라'가 PNG 에서 통째로 사라졌다(조용한 누락).
+#   이제 섹션 2개씩 묶어 페이지 수를 자동 산출하고, 마지막 페이지에만 CYCLE 을 붙인다.
+_N = len(SECTIONS)                       # 현재 7 (수요→설계→장비·소재→제조→후공정→광통신→전력)
+_PER = 2                                 # 페이지당 섹션 수
+PARTS = []
+for _s in range(0, _N, _PER):
+    _e = min(_s + _PER, _N)
+    _body = (LEGEND if _s == 0 else "")
+    for _i in range(_s, _e):
+        _body += section(_i)
+        if _i < _N - 1:                  # 마지막 섹션 뒤엔 화살표 대신 CYCLE
+            _body += arrow(_i)
+    if _e >= _N:
+        _body += f'<div class="cyc">{CYCLE}</div>'
+    PARTS.append(_body)
 
 FULL = LEGEND + "".join(
-    section(i) + (arrow(i) if i < 5 else f'<div class="cyc">{CYCLE}</div>')
-    for i in range(6))
+    section(i) + (arrow(i) if i < _N - 1 else f'<div class="cyc">{CYCLE}</div>')
+    for i in range(_N))
+assert len(ARROWS) >= _N - 1, f"ARROWS({len(ARROWS)}) < 섹션수-1({_N-1}) — 섹션 추가 시 ARROWS 도 함께 늘려야 한다"
 
 def html_doc(body):
     return f'<html><head><meta charset="utf-8"><style>{CSS}</style></head><body>{body}</body></html>'

diff --git a/plugins/namoobi-market-report/skills/namoobi-market-report/scripts/fetch_us.py b/plugins/namoobi-market-report/skills/namoobi-market-report/scripts/fetch_us.py
@@ -131,6 +131,27 @@ ETF = {
  'NASA':('theme','Tema Space Innovators','우주항공',None),'ICLN':('theme','iShares Global Clean Energy','클린에너지',None),
  'ROBO':('theme','ROBO Global Robotics','로보틱스·자동화',None),'AIQ':('theme','Global X AI & Tech','AI·기술 전반',None),
  'MAGS':('theme','Roundhill Magnificent 7','매그니피센트7 동일가중',None),
+ # ── (v4.04 2026-09-05) AI 세부 테마 — 한경MONEY 2026.08 'ETF 심층해부' AI ETF 맵 반영 ──
+ #   배경: 기존 30종은 index·sector·theme·defensive 구조라 'AI 하드웨어 4대 병목(연산→메모리→광통신→전력)'과
+ #   'AI 소프트웨어 4단계(파운데이션→데이터/RAG→보안→에이전트)' 계층이 통째로 비어 있었다.
+ #   기사 AI ETF 맵 40종 중 우리 보유는 11종뿐(QQQ·XLK·MAGS·SMH·SOXX·DRAM·XLU·NLR·AIQ·ROBO·QTUM)이었다.
+ #   반도체 대표(SOXX·SMH)·시장대표(QQQ·XLK)와 중복되는 티커(XSD·PSI·FTXL·SOXQ·VGT·IYW·FTEC·IXN·IGM·IHAK·CLOU·BAI)는 제외.
+ #   ⚠ 광통신 3종은 2026년 신규 상장이라 시계열이 1~2개월뿐 — 1년·6개월 칸은 '-' 로 나오는 게 정상이다.
+ 'SKYY':('aitheme','First Trust Cloud Computing','클라우드 인프라 대표',None),
+ 'WCLD':('aitheme','WisdomTree Cloud Computing','순수 SaaS·구독형',None),
+ 'DTCR':('aitheme','Global X Data Center & Digital Infra','데이터센터·디지털 인프라',None),
+ 'TRFK':('aitheme','Pacer Data and Digital Revolution','데이터 트래픽·전송',None),
+ 'LUMA':('aitheme','KraneShares Photonic and Optical','광통신·포토닉스 (2026 신규상장)',None),
+ 'LYTE':('aitheme','Roundhill Photonics & Optics','실리콘 포토닉스·CPO (2026 신규상장)',None),
+ 'GRID':('aitheme','First Trust Clean Edge Smart Grid','전력망·스마트그리드 인프라',None),
+ 'AIPO':('aitheme','Defiance AI & Power Infrastructure','AI 전력 인프라',None),
+ 'CHPX':('aitheme','Global X AI Semiconductor & Quantum','AI 반도체·양자 특화',None),
+ 'IGV':('aitheme','iShares Expanded Tech-Software','AI 소프트웨어 대표',None),
+ 'CIBR':('aitheme','First Trust NASDAQ Cybersecurity','사이버보안 대표',None),
+ 'HACK':('aitheme','Amplify Cybersecurity','사이버보안 (보안+네트워크 병행)',None),
+ 'BUG':('aitheme','Global X Cybersecurity','사이버보안 (중소형 편중)',None),
+ 'CHAT':('aitheme','Roundhill Generative AI & Technology','생성 AI',None),
+ 'IGPT':('aitheme','Invesco AI and Next Gen Software','AI·차세대 소프트웨어',None),
  'GLD':('defensive','SPDR Gold','금 현물·헷지',None),'TLT':('defensive','iShares 20Y+ Treasury','미국 장기채',None),
  'IEF':('defensive','iShares 7-10Y Treasury','미국 중기채',None)}
 # (v3.7.x) 3.5.1 유럽 주요 ETF: dispSym -> (yahoo_ticker, name, desc, region). 국내상장(.KS)+미국상장 병행 —
@@ -477,7 +498,7 @@ commod = {
 json.dump(commod, open('nmr_commod.json', 'w'), ensure_ascii=False)
 
 # ===== nmr_usetf.json + nmr_etfseries.json =====
-usetf = {'index': [], 'sector': [], 'theme': [], 'defensive': [], 'comment': '', 'asof': dt.date.today().isoformat()}
+usetf = {'index': [], 'sector': [], 'theme': [], 'aitheme': [], 'defensive': [], 'comment': '', 'asof': dt.date.today().isoformat()}
 etfseries = {}
 for sym, (grp, name, desc, wt) in ETF.items():
     r = R(sym); add_day(r, sym); row = {'symbol': sym, 'name': name, 'desc': desc, **r, 'trend': trend(r)}

diff --git a/plugins/namoobi-market-report/skills/namoobi-market-report/scripts/fetch_appc.py b/plugins/namoobi-market-report/skills/namoobi-market-report/scripts/fetch_appc.py
@@ -47,6 +47,15 @@ ROWS=[
  ("후공정/패키징","353200.KS","대덕전자","서버·패키징 기판 강자"),
  ("후공정/패키징","007660.KS","이수페타시스","AI 서버 고다층 MLB의 직접 수혜주"),
  ("후공정/패키징","AMKR","Amkor Technology","글로벌 OSAT 대표주"),
+ # (2026-09-05 신설 · 한경MONEY 2026.08 'ETF 심층해부' 반영) 광통신·CPO — AI 하드웨어 4대 병목의 3번째.
+ #   그동안 부록C 는 '전기적' 인터커넥트(ANET 스위칭·CRDO SerDes·ALAB PCIe/CXL·AVGO·MRVL)만 촘촘했고
+ #   '광학' 쪽 실물 공급자가 통째로 없었다. GPU 연산 속도를 서버 간 전송이 못 따라가는 구간이 병목이 되면서
+ #   자금이 이 축으로 이동했다는 게 실측으로 확인된다(1년 수익률: LITE +490% · COHR +188% · 후지쿠라 +164%).
+ ("광통신·CPO","COHR","Coherent (코히런트)","800G/1.6T 광트랜시버 최대 공급자 — 데이터센터 간 전송의 실물 병목"),
+ ("광통신·CPO","LITE","Lumentum (루멘텀)","광모듈·레이저 — 하이퍼스케일러 직납, AI 수요로 수주 급증"),
+ ("광통신·CPO","FN","Fabrinet (파브리넷)","광모듈 위탁생산 1위 — 엔비디아·시스코 물량의 실제 제조처"),
+ ("광통신·CPO","5803.T","후지쿠라 (Fujikura)","데이터센터 광케이블·커넥터 — AI 배선 수요의 일본 대장"),
+ ("광통신·CPO","138080.KQ","오이솔루션","국내 유일 광트랜시버 양산 — 광통신 병목의 한국 연결고리"),
  ("데이터센터 전력·인프라","VRT","Vertiv Holdings","데이터센터 전력·냉각·UPS의 핵심 전용 수혜주"),
  ("데이터센터 전력·인프라","ETN","Eaton","배전·전력관리의 글로벌 대표주"),
  ("데이터센터 전력·인프라","GEV","GE Vernova","발전·가스터빈·전력 인프라의 핵심 수혜주"),

diff --git a/plugins/namoobi-market-report/skills/namoobi-market-report/SKILL.md b/plugins/namoobi-market-report/skills/namoobi-market-report/SKILL.md
@@ -78,14 +78,14 @@ description: |
 **3.3.1 빅테크 CAPEX** — MSFT·Alphabet·Amazon·Meta 연간. 실적값은 **FMP `statements` cashflow 의 `capitalExpenditure`**(절대값)로 정확 수집, 추정연도(**2027(E) 항상 채움**)만 WebSearch. 표 전체폭. **(req8) 미확인 칸은 빈값으로 두고 "확인불가"/"미공개" 문자열 금지 — 빌더가 전 기업에서 데이터가 전무한 (전망)연도 컬럼을 통째로 드롭하고 "확인불가"→"-"로 정규화한다. (req5 2026-07-18) 2028~2029 는 조사·기재 금지 — 매일 동일하게 받을 공식 출처가 없는 추정이라 제거했고 빌더도 2022~2027 만 그린다(실적 22~25 + 가이던스 26~27E, 홈피 db/capex.json 과 동일 구간). 그래프는 표값 기준. **(v3.62 req6) 차트는 서버 대시보드와 동일한 4분할 회사별 라인(`gen_capex_chart.py` → charts/capex_capex·capex_rev·capex_fcf·capex_ratio.png) — Microsoft·Amazon·Alphabet·Meta·Oracle 5개사(db/capex.json 소스, report_data series 오버라이드). 구 'Meta 삭제' 필터 폐지 — 표에도 Meta 포함.**
 **3.3.2 FOMC 점도표** — 2026·2027·2028말·장기중립 각 행에 **jun·mar 중간값 모두**(빈칸 금지).
 **3.1.1 HY 스프레드 (구 3.3.3 · v3.62 표 폐지)** — **(req1 2026-07-12) OAS 레벨 표(현재~1년) 폐지 — 현재값 코멘트+1년 차트만 렌더**(merge d1~y1 앵커 계산 제거, 차트용 series DB는 유지). FRED `BAMLH0A0HYM2` 일별 series = `fetch_kr.py` 가 **FRED API 키 직접 호출**(1순위, `nmr_fred.py`·SECURITY/secrets.env `FRED_API_KEY`) → equibles 미러 → 영구캐시 폴백 → `gen_hy_chart.py` → `charts/hy_oas.png`. ⚠ FRED 는 ICE 라이선스로 이 시리즈를 **최근 약 3년만 제공(API 키로도 동일 — 2026-07-07 실측 확인)**, 초과 시 한계 명시. **(HY 정리) `hy_spread` 스키마 = {current, asof, d1, w1, m1, m3, m6, y1, comment, chart} — 수치는 merge 가 영구 DB(`namoobi-market-report-server/data/nmr_hy_history.json`, 2020~ 일별 누적) 우선으로 자동 계산. hy_oas·hy_yield·implied_ust·us_credit 블록은 폐지(미렌더링 중복). fetch_kr.py 가 대시보드용 `db/series_hy_oas.json` 도 동시 갱신(sync_server 가 서버 업로드 → 3.1.1 HY 표·차트 렌더).**
-**3.3.x 미국 ETF·리밸런싱** — `us_etfs` 30종(③ 테마에 **DRAM=Roundhill Memory ETF** 항상 포함). S&P500·나스닥100 정기 리밸런싱(편입/편출·일정·룰변경).
+**3.3.x 미국 ETF·리밸런싱** — `us_etfs` **48종**(③ 테마에 **DRAM=Roundhill Memory ETF** 항상 포함). **(v4.04 2026-09-05) ④ AI 세부 테마 15종 신설** — 한경MONEY 2026.08 'ETF 심층해부' AI ETF 맵 반영. 기존 30종이 index·sector·theme·defensive 구조라 'AI 하드웨어 4대 병목(연산→메모리→광통신→전력)'·'소프트웨어 4단계(파운데이션→데이터/RAG→보안→에이전트)' 계층이 통째로 비어 있었다(기사 맵 40종 중 보유 11종). 클라우드 SKYY·WCLD / 데이터센터 DTCR·TRFK / 광통신 LUMA·LYTE(2026 신규상장·이력 짧음) / 전력 GRID·AIPO / 반도체 CHPX / SW IGV / 보안 CIBR·HACK·BUG / 생성AI CHAT·IGPT. 그룹키 `aitheme` — 빌더 groups 배열·서버 app.js etfGroups 양쪽에 라벨 등록 필요. S&P500·나스닥100 정기 리밸런싱(편입/편출·일정·룰변경).
 **3.4.1 아시아 주요 ETF (한국 상장 · v3.46 신설)** — 3.4 아시아 증시 표 바로 뒤에 한국거래소 상장 아시아 국가·테마 대표 ETF 14종을 6그룹(① 아시아 통합·② 중국·③ 일본·④ 대만·⑤ 인도·⑥ 베트남)으로 묶어 `us_etfs` 와 동일한 추세표(현재가·1일·1주·1개월·3개월·6개월·1년·추세(1Y 스파크라인)·추세평가)로 렌더한다. 시세=야후 `<코드>.KS` 일봉 2년 → `scripts/fetch_asia_etf.py`(sandbox·stdlib·스레드 병렬, Phase 1 bash 병렬)가 merge.py `ret()` 동일 산출로 `nmr_asia_etf.json`(그룹별 rows)+`nmr_asia_etf_series.json`(스파크라인) 생성. merge `m['asia_etfs']=LCF('nmr_asia_etf.json')` → 빌더 `renderAsiaEtfs`(3.4 뒤, 데이터 없으면 자동 생략). 차트=`gen_rest_charts.py` 가 `charts/spark_aetf_<코드>.png` 생성. 종목: ACE 아시아TOP50S&P(277540)·TIGER 차이나CSI300(192090)·KODEX 차이나H(099140)·TIGER 차이나항셍테크(371160)·TIGER 차이나과창판STAR50합성(414780)·KODEX 차이나심천ChiNext합성(256750)·TIGER 일본니케이225(241180)·KODEX 일본TOPIX100(101280)·TIGER 일본반도체FACTSET(465660)·TIGER 대만TAIEX선물H(253990,야후 ETF 이력 미제공→기초지수 TAIEX(^TWII)로 수익률·추세 대체·현재가는 ETF 실값)·TIGER TSMC밸류체인FACTSET(453950,대만 반도체 밸류체인)·TIGER 인도니프티50(453870)·TIGER 인도빌리언컨슈머(479730)·ACE 베트남VN30합성(245710). 추정 금지·이력 없으면 '-'(비차단). **(v3.50) 미국거래소 상장 아시아 ETF 15종을 같은 나라 그룹에 병합**(달러 종가 `$` 표기, `ccy:"USD"`): 중국·홍콩=MCHI·FXI·KWEB·EWH / 일본=EWJ·DXJ / 대만=EWT / 인도=INDA / 베트남=VNM·VNAM / **⑦ 동남아(sea) 신설**=EIDO(인니)·EPHE(필리핀)·EWM(말련)·THD(태국)·EWS(싱가포르) — 총 33종(한국 17+미국 16 — 2026-07-17 TIGER 차이나휴머노이드로봇 0053L0·KraneShares KOID·KODEX 차이나AI반도체TOP10 0162L0·RISE 차이나AI반도체TOP4Plus 0164G0 추가), fetch_asia_etf.py 가 미국 티커는 `.KS` 미부착·Daum 폴백 없이 야후 직수집, comment 는 한국/미국 분리 평균.
 **3.6/3.7 북미&중남미·호주&중동 증시 (v3.50 신설)** — 3.5.1 유럽 ETF 뒤. 미국 상장 국가 대표 ETF 추세표(3.5.1과 동형·달러 기준): 3.6=EWW(멕시코)·EWZ(브라질)·EWC(캐나다), 3.7=EWA(호주)·KSA(사우디)·UAE·QAT(카타르). `fetch_us.py` 의 `AMER_ETF`/`AUME_ETF` 맵 → `nmr_amer_etf.json`/`nmr_aume_etf.json` → merge `m['americas_etfs']`/`m['aume_etfs']` → 빌더 `renderAmericasEtfs`/`renderAumeEtfs`(데이터 없으면 자동 생략). 스파크=etfseries 편입으로 `charts/spark_etf_<sym>.png` 자동 생성. 게이트=verify(항목수 3/4·스파크 커버리지 warning).
-**[부록C] AI 반도체 밸류체인 (v3.51 신설 · v4.03 50종)** — 부록B 뒤. 글로벌 개별종목 **50종**을 8개 분류(①빅테크 수요처5 ②팹리스/가속기8 ③파운드리/제조3 ④메모리2 ⑤소재/부품3 ⑥전공정 장비7 ⑦후공정/패키징10 ⑧데이터센터 전력·인프라12)로 묶은 추세표(현재가/1일/1주/1개월/3개월/6개월/1년/추세1Y/추세평가). `scripts/fetch_appc.py`(sandbox·stdlib·스레드, Phase 1 bash 병렬)가 야후 일봉 2년 → `nmr_appc.json`(그룹별 rows·ccy)+`nmr_appc_series.json` → merge `m['appendix_c']` → 빌더 `renderAppendixC`(데이터 없으면 자동 생략, 통화 접두 $/¥/₩=미/일/한). 스파크=gen_rest_charts `charts/spark_c_<심볼(.→_)>.png`. 게이트=verify [AppC](50종 미달·스파크 커버리지 warning). 멤버십 변경 시 fetch_appc.py `ROWS` 갱신(+부록D 관계도 assets/gen_appd_valuechain.py 재생성). 커버리지 근거(2026-07-05 헤지 검토): 테스트·그라인더(Advantest·Disco)/인터커넥트 짝(ALAB)/웨이퍼 짝(SUMCO) 보강, (v3.52.1) ORCL·이수페타시스(007660)·AMKR 추가. **(v4.03 2026-09-05) 온사이트 발전 축 = Bloom Energy(BE) 추가** — 가스터빈 백로그(GEV 116GW·2031년 인도)가 못 대는 물량을 리드타임 55~90일로 가져가는 대체 경로(오라클 Project Jupiter가 가스터빈+디젤 → 블룸 마이크로그리드 최대 2.85GW 로 전환). ⚠ **해자 지도(B1/선별B2) 편입은 부적합 판정** — 매출 73%가 고객 1곳(10-Q 2026 H1 원문)·두산퓨얼셀 양산 진입·리드타임 우위는 가스터빈 증설(2030년 30GW)로 희석되므로 '구조적 해자'가 아니라 '일시적 공급부족의 반사이익'. 밸류체인 참고 종목으로만 수록한다.
+**[부록C] AI 반도체 밸류체인 (v3.51 신설 · v4.04 55종)** — 부록B 뒤. 글로벌 개별종목 **55종**을 9개 분류(①빅테크 수요처5 ②팹리스/가속기8 ③파운드리/제조3 ④메모리2 ⑤소재/부품3 ⑥전공정 장비7 ⑦후공정/패키징10 ⑧광통신·CPO5 ⑨데이터센터 전력·인프라12)로 묶은 추세표(현재가/1일/1주/1개월/3개월/6개월/1년/추세1Y/추세평가). `scripts/fetch_appc.py`(sandbox·stdlib·스레드, Phase 1 bash 병렬)가 야후 일봉 2년 → `nmr_appc.json`(그룹별 rows·ccy)+`nmr_appc_series.json` → merge `m['appendix_c']` → 빌더 `renderAppendixC`(데이터 없으면 자동 생략, 통화 접두 $/¥/₩=미/일/한). 스파크=gen_rest_charts `charts/spark_c_<심볼(.→_)>.png`. 게이트=verify [AppC](55종 미달·스파크 커버리지 warning). 멤버십 변경 시 fetch_appc.py `ROWS` 갱신(+부록D 관계도 assets/gen_appd_valuechain.py 재생성). 커버리지 근거(2026-07-05 헤지 검토): 테스트·그라인더(Advantest·Disco)/인터커넥트 짝(ALAB)/웨이퍼 짝(SUMCO) 보강, (v3.52.1) ORCL·이수페타시스(007660)·AMKR 추가. **(v4.03 2026-09-05) 온사이트 발전 축 = Bloom Energy(BE) 추가** — 가스터빈 백로그(GEV 116GW·2031년 인도)가 못 대는 물량을 리드타임 55~90일로 가져가는 대체 경로(오라클 Project Jupiter가 가스터빈+디젤 → 블룸 마이크로그리드 최대 2.85GW 로 전환). ⚠ **해자 지도(B1/선별B2) 편입은 부적합 판정** — 매출 73%가 고객 1곳(10-Q 2026 H1 원문)·두산퓨얼셀 양산 진입·리드타임 우위는 가스터빈 증설(2030년 30GW)로 희석되므로 '구조적 해자'가 아니라 '일시적 공급부족의 반사이익'. 밸류체인 참고 종목으로만 수록한다.
 
 **[부록E·F] 피지컬 AI 밸류체인 (v3.72 신설)** — 부록D 뒤. 휴머노이드 부품 생태계 **상장 54종**을 6계층(①두뇌7 ②신경·감각12 ③근육·관절17 ④골격·에너지8 ⑤가상훈련장3 ⑥완성체7)으로 묶은 추세표 + 관계도. `scripts/fetch_appe.py`(sandbox·stdlib·스레드, Phase 1 bash 병렬)가 야후 일봉 2년 → `nmr_appe.json`+`nmr_appe_series.json` → merge `m['appendix_e']` → 빌더 `renderAppendixE`(데이터 없으면 자동 생략, 통화 접두 $/¥/₩/NT$/CN¥/HK$/A$). 스파크=gen_rest_charts `charts/spark_e_<심볼(.→_)>.png`. 표 앞에 시장 규모·구조 핵심 수치표(모건스탠리 5조달러·골드만삭스 국가별 생산 87.7%·옴디아 점유 39%·액추에이터 원가 30~60%·전고체/시뮬레이터 시장) 고정 삽입. **[부록F]** = `renderAppendixF` 가 repo `assets/appf_physical_ai_{1..3}.png`(생성기 `assets/gen_appf_physical_ai.py`, weasyprint→PNG) 를 charts/ 로 IEND 검증 복사 후 3장 삽입 — 파란=독점·준독점 / 황색=과점·양강 / 회색=비상장(피겨AI·애지봇·유니트리·1X·샤르파·BD·에이로봇·알코닉·엔진AI). 구성 근거=한경비즈니스 2026.08.05-11 커버스토리 '피지컬 AI 핵심 밸류체인'. 멤버십 변경 시 fetch_appe.py `ROWS` + gen_appf_physical_ai.py `SECTIONS` 동시 갱신. 서버 병행: 크론 `fetch_appe.py`(06:50·15:50) → `data/db/appe.json` → 대시보드 DB data 탭 패널·인벤토리(`appe`).
 **[부록G·H] 7대 국가전략분야(7대 SEED) 밸류체인 (v3.95 — G 개별종목 신설·구 부록G 관계도는 H 로 재명명)** — 부록F 뒤. **[부록G]** = 7대 SEED(2026.8.12 발표: SMR·핵융합·재생에너지·전력망·핵심광물·소부장·양자·우주·항공·첨단바이오) 밸류체인 **상장 106종**을 7분야 그룹 추세표로 렌더(부록C/E 동형: 현재가/1일/1주/1개월/3개월/6개월/1년/추세1Y/추세평가). `scripts/fetch_appg.py`(sandbox·stdlib·스레드, Phase 1 bash 병렬)가 야후 일봉 2년 → `nmr_appg.json`(그룹별 rows·ccy)+`nmr_appg_series.json` → merge `m['appendix_g']` → 빌더 `renderAppendixG`(데이터 없으면 자동 생략, 통화 접두 $/¥/₩/CN¥/HK$/A$/유럽 현지통화). 스파크=gen_rest_charts `charts/spark_g_<심볼(.→_)>.png`. 구성 = [부록H] 관계도의 상장 종목 전수(비상장·순수 수요처 빅테크(AMZN·GOOGL·META·MSFT·NVDA=부록C 기존재) 제외, 분야 간 중복은 첫 분야 1회). **[부록H]** = 구 부록G 관계도(assets/appg_strategy7_{1..11}.png — 이미지·생성기 파일명 불변, 제목만 H). 멤버십 변경 시 fetch_appg.py `ROWS` + assets/gen_appg_strategy7.py 동시 갱신.
-**[부록D] AI 반도체 밸류체인 관계도 (v3.52 신설)** — 부록C 뒤. 부록C 종목들이 '왜 중요한지·어떤 해자를 가졌는지'를 수요(빅테크 CAPEX)→설계→장비·소재→제조→후공정→전력 인프라 6단 흐름 + 해자 배지(파랑=독점·준독점, 황색=과점·복점·양강)로 그린 **정적 관계도 이미지 3장**(부록C와 동일 50종 — v4.03 동기화). 원본=repo `assets/appd_valuechain_{1..3}.png`(생성기 `assets/gen_appd_valuechain.py` — weasyprint+pdftocairo, **종목 구성 변경 시에만 1회 재실행**; 매일 파이프라인 아님). 빌더 `renderAppendixD` 가 `charts/` 미존재 시 `/sessions/*/mnt` 에서 assets 를 find→PNG 무결성(IEND) 검증→잘림이면 `git show HEAD:assets/...` 폴백→charts/ 복사 후 삽입(TOC 부록D 포함, 이미지 없으면 자동 생략·비차단). 수집·에이전트·verify 게이트 변경 없음.
+**[부록D] AI 반도체 밸류체인 관계도 (v3.52 신설)** — 부록C 뒤. 부록C 종목들이 '왜 중요한지·어떤 해자를 가졌는지'를 수요(빅테크 CAPEX)→설계→장비·소재→제조→후공정→전력 인프라 6단 흐름 + 해자 배지(파랑=독점·준독점, 황색=과점·복점·양강)로 그린 **정적 관계도 이미지 4장**(부록C와 동일 55종 — v4.04 동기화). ⚠ 생성기 PARTS·빌더 loadOne 은 **장수를 하드코딩하지 않는다** — 구판은 3장·6섹션 고정이라 광통신 섹션을 넣자 마지막 전력·인프라가 조용히 사라졌다(2026-09-05 실측). 원본=repo `assets/appd_valuechain_{1..3}.png`(생성기 `assets/gen_appd_valuechain.py` — weasyprint+pdftocairo, **종목 구성 변경 시에만 1회 재실행**; 매일 파이프라인 아님). 빌더 `renderAppendixD` 가 `charts/` 미존재 시 `/sessions/*/mnt` 에서 assets 를 find→PNG 무결성(IEND) 검증→잘림이면 `git show HEAD:assets/...` 폴백→charts/ 복사 후 삽입(TOC 부록D 포함, 이미지 없으면 자동 생략·비차단). 수집·에이전트·verify 게이트 변경 없음.
 **5 환율 스파크라인** — 원화 5쌍(usd/eur/jpy/cny/hkd_krw) 1년 주봉.
 **6.2/6.3 코인** — BTC·ETH·XRP·SOL 1년 + 공포·탐욕 1년 차트. 김프 4종(특히 SOL) 항상 채움.
 **7 한국 주요 증권사(12) = 텔레그램 7 + 공개 웹 4 (v3.73 삼성·미래에셋 추가)** — **(v3.73 신설) 삼성증권·미래에셋증권은 `fetch_brokers_tele.py` 가 공개 홈페이지에서 직접 수집**(서버 네이버 DB에 삼성 0건·미래에셋 며칠 지연으로 이틀 연속 '미확인'으로 비던 문제의 근본 해결): 삼성=`www.samsungpop.com/sscommon/jsp/search/research/research_pop.jsp`(리서치 탐색기, 표 [제목|작성자|발행일]) · 미래에셋=`securities.miraeasset.com/bbs/board/message/list.do?categoryId=1521`(EUC-KR, 표 [작성일|제목|첨부|작성자], 링크 `javascript:view('<messageId>','<messageNumber>')` → `view.do?messageId=…&messageNumber=…&categoryId=1521` 퍼머링크 복원). 둘 다 로그인·Chrome 불필요(2026-07-21 sandbox 실측 당일자 수집 확인) — 구 Chrome 3사 추출은 폴백으로만 유지. **(구 v3.66 원문)** 신한·키움·메리츠·하나·교보·유안타·현대차는 **공식 텔레그램**, **KB증권·NH투자증권은 공개 홈페이지**(KB=`rc.kbsec.com/today/index.able` 오늘의 리서치: 모닝/마감코멘트+당일 리포트 전체 · NH=`m.nhqv.com/research/boardList?rshPprDitCd=02` 시황·투자전략(Global Markets Morning Brief 데일리)+`m.nhsec.com/research/newestBoardList`, 둘 다 로그인 無·EUC-KR) — 모두 `scripts/fetch_brokers_tele.py`(curl·bash 병렬, Chrome 불필요; kb·nh 는 텔레그램이 봇/비공개 초대링크라 웹 수집). **(2차 req10 2026-07-18 · 2026-07-19 개정) 핵심(풀) 6사 = KB·NH·삼성·미래에셋·한투·메리츠**(7.1~7.6) + **7.7 기타 증권사 요약(텔레그램 기반 잔여 6사: 신한·키움·하나·교보·유안타·현대차 — key_message 1줄 표)** + **7.8 네이버 금융리서치 모음** — 서버 `broker_reports` DB(recent 2일치·6게시판)를 merge 가 자동 주입, 빌더가 테마별 표(작성일·증권사·제목링크·간단요약)로 렌더 + **7.9 공통 핵심 주제(7.1~7.8 종합)**. 6사 key_reports 링크는 merge 가 서버 DB로 자동 보강. 삼성·미래에셋·한투는 **메인세션 Claude in Chrome — `browser_batch` 로 3탭 navigate 를 묶고 `javascript_tool` 타깃추출(단계별 screenshot 금지·토큰 절감)**(공개 리서치 페이지 정상 접속됨 — 삼성=`samsungpop … research_pop.jsp#bm`(팝업'확인'), 미래에셋=`miraeasset … list.do?categoryId=1521`, 한투=`koreainvestment … Strategy.jsp?jkGubun=99`·`34`; 상세 URL `references/agents.md`. get_page_text 덤프 금지; "미확인/로그인전용" 오판 금지). 핵심 6사 풀·기타 4사 1줄 요약.
@@ -274,7 +274,7 @@ python3 "$SRC/nmr_selfcheck.py" "$SRC" "$TOKP"; SC=$?
 
 핵심 규칙:
 - **(v3.16 모델 티어링) 서브에이전트 `model` 인자를 반드시 명시한다.** 수집 에이전트(News·Crypto·Macro·KoreaSemiTheme·GlobalSecurities·USMacroExtras·IndexRebalance·NewsBerk·HBM)는 전부 **`model:"sonnet"`**, 종합·추론하는 AnalysisAgent(Phase 2)만 **`model:"opus"`**. 미지정 시 부모(Opus) 상속이라 토큰·지연이 커지므로 누락 금지 — 수집은 검색→추출→저장 작업이라 Sonnet 으로 충분하고 "추정 금지·도구값만" 규칙으로 품질이 유지된다.
-- Phase 1의 **수집 에이전트를 단일 메시지에서 1회 동시 발행** (general-purpose · model:sonnet): News·Crypto(정성)·KoreaSemiTheme(선정·AUM·노트)·GlobalSecurities·**MacroAgent(3.1 주요지표: FMP economics/treasury + FRED API → nmr_macro.json)** + **(상시 수집 — DB가 변동체크·재사용)** USMacroExtras(점도표 due 또는 CAPEX 창)·IndexRebalance(리밸런싱 due)·NewsBerk(ai_trends 때문에 상시, 단 13F 서브태스크는 berkshire due일 때만)·HBM(분기 창). **마커 reuse·창밖이면 해당 에이전트 미발행·캐시 재사용.** **같은 메시지에서 `scripts/fetch_us.py`·`fetch_kr.py`·`fetch_semi.py`·`fetch_leading.py`·`fetch_oecd_cli.py`(3.1.4 OECD CLI — SDMX 직접)·`fetch_customs.py`(3.1.10 관세청 수출 잠정치 — 매일 최근4개월 해시로 변경체크, 변경시만 전체백필)·`fetch_asia_etf.py`(3.4.1 아시아 ETF 29종)·`fetch_appc.py`([부록C] AI 반도체 밸류체인 50종, v4.03)·`fetch_appe.py`([부록E] 피지컬 AI 밸류체인 54종)·`fetch_appg.py`([부록G] 7대 국가전략분야 밸류체인 106종, v3.95)·`fetch_krx_brief.py`(3.2.4/3.2.5 KRX 증시 Brief·공매도 데일리 브리프 — 회차 att_seq 변동시만 다운로드·캡쳐, 불변이면 저장본 재사용) 를 bash 병렬 tool-call** 로 실행(美/글로벌·한국 시세·시계열, 스레드 병렬 각 ~1~10초; 에이전트 아님). **(v3.70) 증권사는 배치 "앞" 재배치**: 배치 발행 **직전** bash `fetch_brokers_tele.py`(텔레그램 7사+KB·NH) + 메인세션 Chrome 3사(삼성·미래에셋·한투, `browser_batch` 3탭 navigate·`javascript_tool` 타깃추출, screenshot·get_page_text 덤프 금지)·FactSet topic 추출 → 원문 `$WORK/chrome_secu_raw.json` 저장 → **SecuritiesCompose 에이전트(sonnet)를 메인 배치에 포함**(직렬 작성 금지 — 17분 낭비 실측). (v3.67) OECD CLI 는 `fetch_oecd_cli.py` sandbox 직접 수집으로 전환 — Chrome KOSIS 탭 불필요. **(v3.70) deriv 3.1.13 은 서버 크론(05:50 KST) 정본 — `run_for_report.py` 가 서버 스냅샷(26h 내)이면 회수만 하고 로컬 파이프라인·pip 선설치를 생략**하므로 deriv pip 2회 선설치는 서버 스냅샷 미신선(로컬 폴백)일 때만 필요.
+- Phase 1의 **수집 에이전트를 단일 메시지에서 1회 동시 발행** (general-purpose · model:sonnet): News·Crypto(정성)·KoreaSemiTheme(선정·AUM·노트)·GlobalSecurities·**MacroAgent(3.1 주요지표: FMP economics/treasury + FRED API → nmr_macro.json)** + **(상시 수집 — DB가 변동체크·재사용)** USMacroExtras(점도표 due 또는 CAPEX 창)·IndexRebalance(리밸런싱 due)·NewsBerk(ai_trends 때문에 상시, 단 13F 서브태스크는 berkshire due일 때만)·HBM(분기 창). **마커 reuse·창밖이면 해당 에이전트 미발행·캐시 재사용.** **같은 메시지에서 `scripts/fetch_us.py`·`fetch_kr.py`·`fetch_semi.py`·`fetch_leading.py`·`fetch_oecd_cli.py`(3.1.4 OECD CLI — SDMX 직접)·`fetch_customs.py`(3.1.10 관세청 수출 잠정치 — 매일 최근4개월 해시로 변경체크, 변경시만 전체백필)·`fetch_asia_etf.py`(3.4.1 아시아 ETF 29종)·`fetch_appc.py`([부록C] AI 반도체 밸류체인 55종, v4.04)·`fetch_appe.py`([부록E] 피지컬 AI 밸류체인 54종)·`fetch_appg.py`([부록G] 7대 국가전략분야 밸류체인 106종, v3.95)·`fetch_krx_brief.py`(3.2.4/3.2.5 KRX 증시 Brief·공매도 데일리 브리프 — 회차 att_seq 변동시만 다운로드·캡쳐, 불변이면 저장본 재사용) 를 bash 병렬 tool-call** 로 실행(美/글로벌·한국 시세·시계열, 스레드 병렬 각 ~1~10초; 에이전트 아님). **(v3.70) 증권사는 배치 "앞" 재배치**: 배치 발행 **직전** bash `fetch_brokers_tele.py`(텔레그램 7사+KB·NH) + 메인세션 Chrome 3사(삼성·미래에셋·한투, `browser_batch` 3탭 navigate·`javascript_tool` 타깃추출, screenshot·get_page_text 덤프 금지)·FactSet topic 추출 → 원문 `$WORK/chrome_secu_raw.json` 저장 → **SecuritiesCompose 에이전트(sonnet)를 메인 배치에 포함**(직렬 작성 금지 — 17분 낭비 실측). (v3.67) OECD CLI 는 `fetch_oecd_cli.py` sandbox 직접 수집으로 전환 — Chrome KOSIS 탭 불필요. **(v3.70) deriv 3.1.13 은 서버 크론(05:50 KST) 정본 — `run_for_report.py` 가 서버 스냅샷(26h 내)이면 회수만 하고 로컬 파이프라인·pip 선설치를 생략**하므로 deriv pip 2회 선설치는 서버 스냅샷 미신선(로컬 폴백)일 때만 필요.
 - AnalysisAgent 는 6개 결과를 모두 받은 뒤 **마지막에 단독 호출**(general-purpose · model:opus). 6개 JSON 을 프롬프트에 붙이는 대신 "outputs 의 nmr_*.json 6개를 bash 로 읽으라"고 지시해도 된다 (재타이핑 절감).
 - **(v3.2.3 속도)** MarketsAgent·CommoditiesAgent 프롬프트에 `period="1y", interval="1wk"`(주봉) 사용을 명시한다 — 일봉 금지. 1주 변화율은 직전 주봉 종가 기준.
 - **(v3.2.3 속도)** 각 에이전트 프롬프트에 "최종 JSON 을 outputs 하위 `nmr_<이름>.json` 파일로 bash heredoc 저장하고, 응답으로는 저장 경로와 1줄 요약만 반환하라"를 명시한다. 메인 세션이 긴 JSON 을 받아 재타이핑하는 것을 금지.
